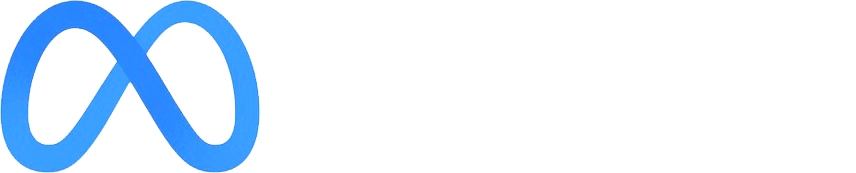
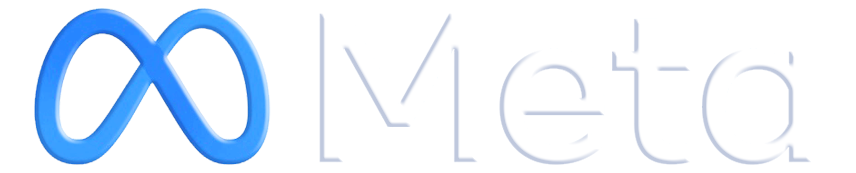
feat: 文章更新、图片优化.

diff --git a/README.md b/README.md
@@ -4,15 +4,15 @@
 
 ## 背景
 
-`Facebook` 近期将其母公司改名为 `Meta`，正式宣布开始进军元宇宙领域 `🪐` 。本文主要讲述通过 `Three.js` + `Blender` 技术栈，实现 `Meta` 公司炫酷的 `3D` 动态 `Logo`，内容包括模型生成、模型加载、添加动画、添加点击事件、更换材质等。
+`Facebook` 近期将其母公司改名为 `Meta`，宣布正式开始进军元宇宙领域 `🪐` 。本文主要讲述通过 `Three.js` + `Blender` 技术栈，实现 `Meta` 公司炫酷的 `3D` 动态 `Logo`，内容包括基础模型圆环、环面扭结、管道及模型生成、模型加载、添加动画、添加点击事件、更换材质等。
 
 ### 什么是元宇宙
 
-元宇宙 `Metaverse` 一词源于 `1992` 年尼尔·斯蒂芬森的 `《雪崩》`，这本书描述了一个平行于现实世界的虚拟世界 `Metaverse`，所有现实生活中的人都有一个网络分身 `Avatar`。`维基百科` 对元宇宙的描述是：通过虚拟增强的物理现实，呈现收敛性和物理持久性特征的，基于未来互联网，具有链接感知和共享特征的 `3D` 虚拟空间。
+**元宇宙 Metaverse** 一词源于 `1992` 年尼尔·斯蒂芬森的 `《雪崩》`，这本书描述了一个平行于现实世界的虚拟世界 `Metaverse`，所有现实生活中的人都有一个网络分身 `Avatar`。`维基百科` 对元宇宙的描述是：通过虚拟增强的物理现实，呈现收敛性和物理持久性特征的，基于未来互联网，具有链接感知和共享特征的 `3D` 虚拟空间。
 
 ![zack](./assets/images/zack.gif)
 
-元宇宙的内涵是吸纳了信息革命 `5G/6G`、互联网革命 `web3.0`、人工智能革命，以及 `VR`、`AR`、`MR`，特别是游戏引擎在内的虚拟现实技术革命的成果，向人类展现出构建与传统物理世界平行的全息数字世界的可能性；引发了信息科学、量子科学，数学和生命科学的互动，改变科学范式；推动了传统的哲学、社会学甚至人文科学体系的突破；囊括了所有的数字技术。正如电影 `《头号玩家》` 的场景，在未来的某一天，人们可以随时随地切换身份，自由穿梭于物理世界和数字世界，在虚拟空间和时间节点所构成的元宇宙中学习生活。
+> **元宇宙**的内涵是吸纳了信息革命 `5G/6G`、互联网革命 `web3.0`、人工智能革命，以及 `VR`、`AR`、`MR`，特别是游戏引擎在内的虚拟现实技术革命的成果，向人类展现出构建与传统物理世界平行的全息数字世界的可能性；引发了信息科学、量子科学，数学和生命科学的互动，改变科学范式；推动了传统的哲学、社会学甚至人文科学体系的突破；囊括了所有的数字技术。正如电影 `《头号玩家》` 的场景，在未来某一天，人们可以随时随地切换身份，自由穿梭于物理世界和数字世界，在虚拟空间和时间节点所构成的元宇宙中学习生活。
 
 ## 实现效果
 
@@ -20,23 +20,19 @@
 
 ![preview](./assets/images/preview.gif)
 
-> 在线预览
+> `🔗` 在线预览：dragonir.github.io/3d-meta-logo  （由于模型较大，加载进度可能比较缓慢）
 
-## 实现
+## 开发实现
 
-本文示例展示的是 `⭐ 试炼四`，跳转到该段落直接查看具体实现流程。
-
-开发之前我们先观察一下这个meta logo，可以发现它是一个圆环经过对折扭曲形成的，因此实现它的时候可以从实现圆环开始。
+> `📌` 注意：上述示例动图展示的是**试炼四**，不想看试错过程（试炼一、试炼二、试炼三）的，可直接调整到试炼四段落查看详细实现流程。失败流程中都列出了难点，知道解决方案的大佬请在评论区不吝赐教 `😂`。
 
 ![logo](./assets/images/logo.png)
 
+开发之前我们先观察一下 `Meta Logo`，可以发现它是一个圆环经过对折扭曲形成的，因此实现它的时候可以从实现圆环开始。
+
 ### 试炼一：THREE.TorusGeometry
 
-`失败 😭`
-
-通过three.js提供的基础几何体THREE.TorusGeometry（圆环）Torus（圆环）是一种看起来像甜甜圈 `🍩` 的简单图形
-
-下面给出了常用的几个属性：
+`Three.js` 提供的基础几何体 `THREE.TorusGeometry`（圆环）是一种看起来像甜甜圈 `🍩` 的简单图形。主要参数：
 
 * `radius`：可选。定义圆环的半径尺寸。默认值是 `1`。
 * `tube`：可选。定义圆环的管子半径。默认值是 `0.4`。
@@ -44,17 +40,19 @@
 * `tubularSegments`：可选。定义圆环宽度方向上的分段数。默认值是 `6`。
 * `arc`：可选。定义圆环绘制的长度。取值范围是 `0` 到 `2 * π`。默认值是 `2 * π`（一个完整的圆）。
 
+语法示例：
+
 ```js
-THREE.TorusGeometry(radius, tube, radialSegments, tubularSegments, arc)
+THREE.TorusGeometry(radius, tube, radialSegments, tubularSegments, arc);
 ```
+
+> `😭 失败`：没有找到扭曲圆环的方法。
 
 ![preview_1](./assets/images/preview_1.png)
 
 ### 试炼二：THREE.TorusKnotGeometry
 
-`失败 😭`
-
-`THREE.TorusKnotGeometry` 可以用来创建三维环面扭结，环面扭结是一种比较特别的结，看上去像一根管子绕着它自己旋转了几圈，创建时可输入以下参数：
+`THREE.TorusKnotGeometry` 可以用来创建三维环面扭结，环面扭结是一种比较特别的结，看上去像一根管子绕着它自己旋转了几圈。主要参数：
 
 * `radius`：可选。设置完整圆环的半径，默认值是 `1`。
 * `tube`：可选。设置管道的半径，默认值是 `0.4`。
@@ -63,27 +61,27 @@ THREE.TorusGeometry(radius, tube, radialSegments, tubularSegments, arc)
 * `p`：可选。决定几何体将绕着其旋转对称轴旋转多少次，默认值是 `2`。
 * `q`：可选。决定几何体将绕着其内部圆环旋转多少次，默认值是 `3`。
 
-创建三维环面扭结的方式如下：
+语法示例：
 
 ```js
-THREE.TorusKnotGeometry(radius, tube , radialSegments , tubularSegments , p,q)
+THREE.TorusKnotGeometry(radius, tube , radialSegments , tubularSegments , p,q);
 ```
+
+`😭 失败`：没找到能够控制手动扭曲程度的方法。
 
 ![preview_2](./assets/images/preview_2.png)
 
 ### 试炼三：THREE.TubeGeometry
 
-`成功 😊`
-
-`THREE.TubeGeometry` 沿着一条三维的样条曲线拉伸出一根管。你可以指定一些定点来定义路径，然后使用 `THREE.TubeGeometry` 创建这根管。
-
-属性
+`THREE.TubeGeometry` 沿着一条三维的样条曲线拉伸出一根管。你可以指定一些定点来定义路径，然后使用 `THREE.TubeGeometry` 创建这根管。主要参数：
 
 * `path`：该属性用一个 `THREE.SplineCurve3` 对象来指定管道应当遵循的路径。
 * `segments`：该属性指定构建这个管所用的分段数。默认值为 `64`.路径越长，指定的分段数应该越多。
 * `radius`：该属性指定管的半径。默认值为 `1`.
 * `radiusSegments`：该属性指定管道圆周的分段数。默认值为 `8`，分段数越多，管道看上去越圆。
 * `closed`：如果该属性设置为 `true`，管道的头和尾会连起来，默认值为 `false`。
+
+代码示例
 
 ```js
 // ...
@@ -140,17 +138,21 @@ function generatePoints(points, segments, radius, radiusSegments, closed) {
 
 ![preview_3](./assets/images/preview_3.png)
 
+`😊 勉强成功`：但是管道连成的圆环不够圆，实现完美的圆弧需要精确的坐标，暂时没找到坐标计算方法。
+
 ### 试炼四：Blender + Three.js
 
-`成功 😄`
+虽然使用 `THREE.TubeGeometry` 可以勉强实现，但是效果并不好，要实现圆滑的环，需要为管道添加精确的扭曲圆环曲线路径函数。由于数学能力有限 `🤕`，暂时没找到扭曲圆弧路径计算的方法。因此决定从建模层面解决。
 
-虽然使用THREE.TubeGeometry可以勉强实现，但是效果并不好，要实现圆滑的环，需要为管道添加精确的扭曲圆环曲线路径函数。由于数学能力有限🤕，暂时没找到扭曲圆弧路径计算的方法。因此决定从建模层面解决。
+`成功 😄`：但是手残的我使用Blender建模花费了大量的时间 `💔`。
 
 #### 建模教程
 
+逛 `B站` 的时候发现了这位大佬发的宝藏视频，刚好解决了自己的难题。
+
 ![bilibili](./assets/images/bilibili.png)
 
-> `🔗` 传送门：[【动态设计教程】AE+blender能怎么玩？脸书元宇宙Meta动态logo已完全解析，100%学会](https://www.bilibili.com/video/BV1Bf4y1T7ce)
+> `🎦` 传送门：[【动态设计教程】AE+blender能怎么玩？脸书元宇宙Meta动态logo已完全解析，100%学会](https://www.bilibili.com/video/BV1Bf4y1T7ce)
 
 #### 用Blender建模
 
@@ -218,7 +220,7 @@ function init() {
   controls.target.set(0, 0, 0);
   controls.update();
   window.addEventListener('resize', onWindowResize, false);
-  // stats：初始化性能插件
+  // 初始化性能插件
   stats = new Stats();
   container.appendChild(stats.dom);
 }
@@ -229,6 +231,8 @@ function onWindowResize() {
   renderer.setSize(window.innerWidth, window.innerHeight);
 }
 ```
+
+> `🔗` 场景初始化的详细流程，可阅读我的另一篇文章[《使用three.js实现炫酷的酸性风格3D页面》](https://juejin.cn/post/7012996721693163528)。
 
 #### 加载Logo模型
 
@@ -315,7 +319,7 @@ function animate() {
 }
 ```
 
-#### 加载进度
+#### 展示加载进度
 
 `FBXLoader` 同时返回两个回调函数，可以像下面这样使用，用来展示模型加载进程展示以及加载失败的逻辑实现。
 
@@ -378,7 +382,7 @@ window.addEventListener('click', onMouseClick, false);
 
 #### 加载人物模型
 
-人物模型的加载流程和logo模型加载流程是一样的。
+人物模型的加载流程和 `Logo` 模型加载流程是一样的。我添加了一个正在施展龟派气功的人物，没想到与 `Logo` 模型的旋转动画非常契合 `😂` 。
 
 ```js
 loader.load('assets/models/man.fbx', function (mesh) {
@@ -407,13 +411,24 @@ loader.load('assets/models/man.fbx', function (mesh) {
 });
 ```
 
-人物模型来源于[mixamo.com](https://www.mixamo.com)，该网站有有上百种任务和上千种动作可自由组合，`免费` 下载。大家可以挑选自己喜欢的人物和动画动作来练习 `Three.js`。
+本文示例人物模型来源于[mixamo.com](https://www.mixamo.com)，该网站有有上百种人物和上千种动作可自由组合，`免费` 下载。大家可以挑选自己喜欢的人物和动画动作来练习 `Three.js`。
 
 ![download](./assets/images/download.png)
 
-> `📌` 完整代码：https://github.com/dragonir/3d-meta-logo
-
 ## 总结
+
+本文中涉及到的主要知识点包括：
+
+* `THREE.TorusGeometry`：圆环。
+* `THREE.TorusKnotGeometry`：环面扭结。
+* `THREE.TubeGeometry`：管道。
+* `Blender`: 建模。
+* `FBXLoader`: 加载模型，显示加载进度。
+* `TextureLoader`：加载材质。
+* `THREE.AnimationMixer`：加载动画。
+* `THREE.Raycaster`：捕获点击模型。
+
+> `🔗` 完整代码：https://github.com/dragonir/3d-meta-logo
 
 ## 参考资料
 
@@ -421,3 +436,5 @@ loader.load('assets/models/man.fbx', function (mesh) {
 * [2]. [ThreeJs认识材质](https://juejin.cn/post/6844903903318949895#heading-12)
 * [3]. [Three之Animation初印象](https://zhuanlan.zhihu.com/p/419797361)
 * [4]. [什么是元宇宙？](https://zhuanlan.zhihu.com/p/392257538)
+
+> 作者：dragonir  本文地址：https://github.com/dragonir/3d-meta-logo
